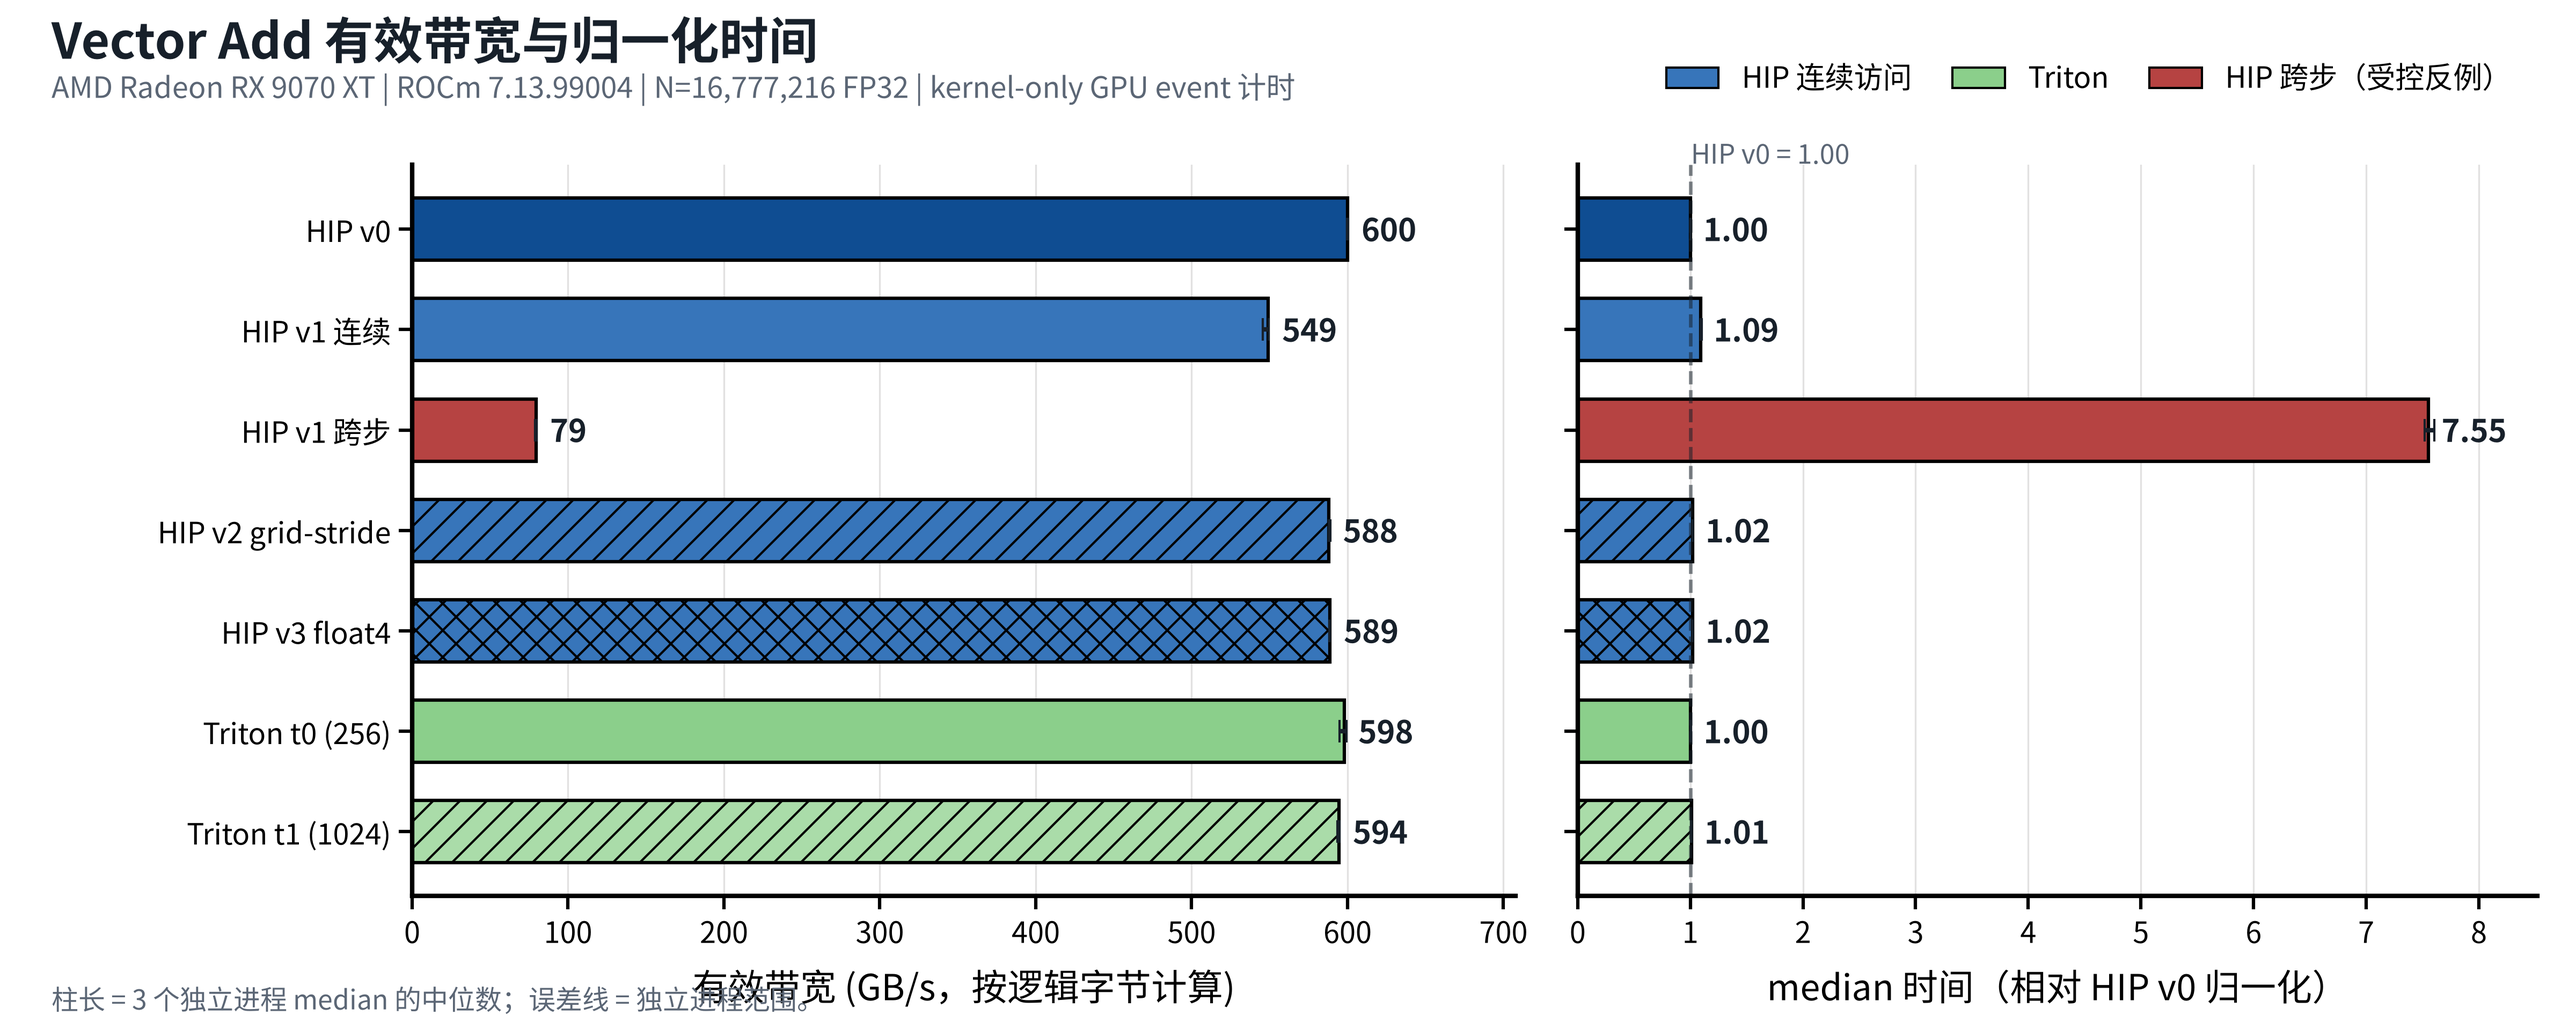
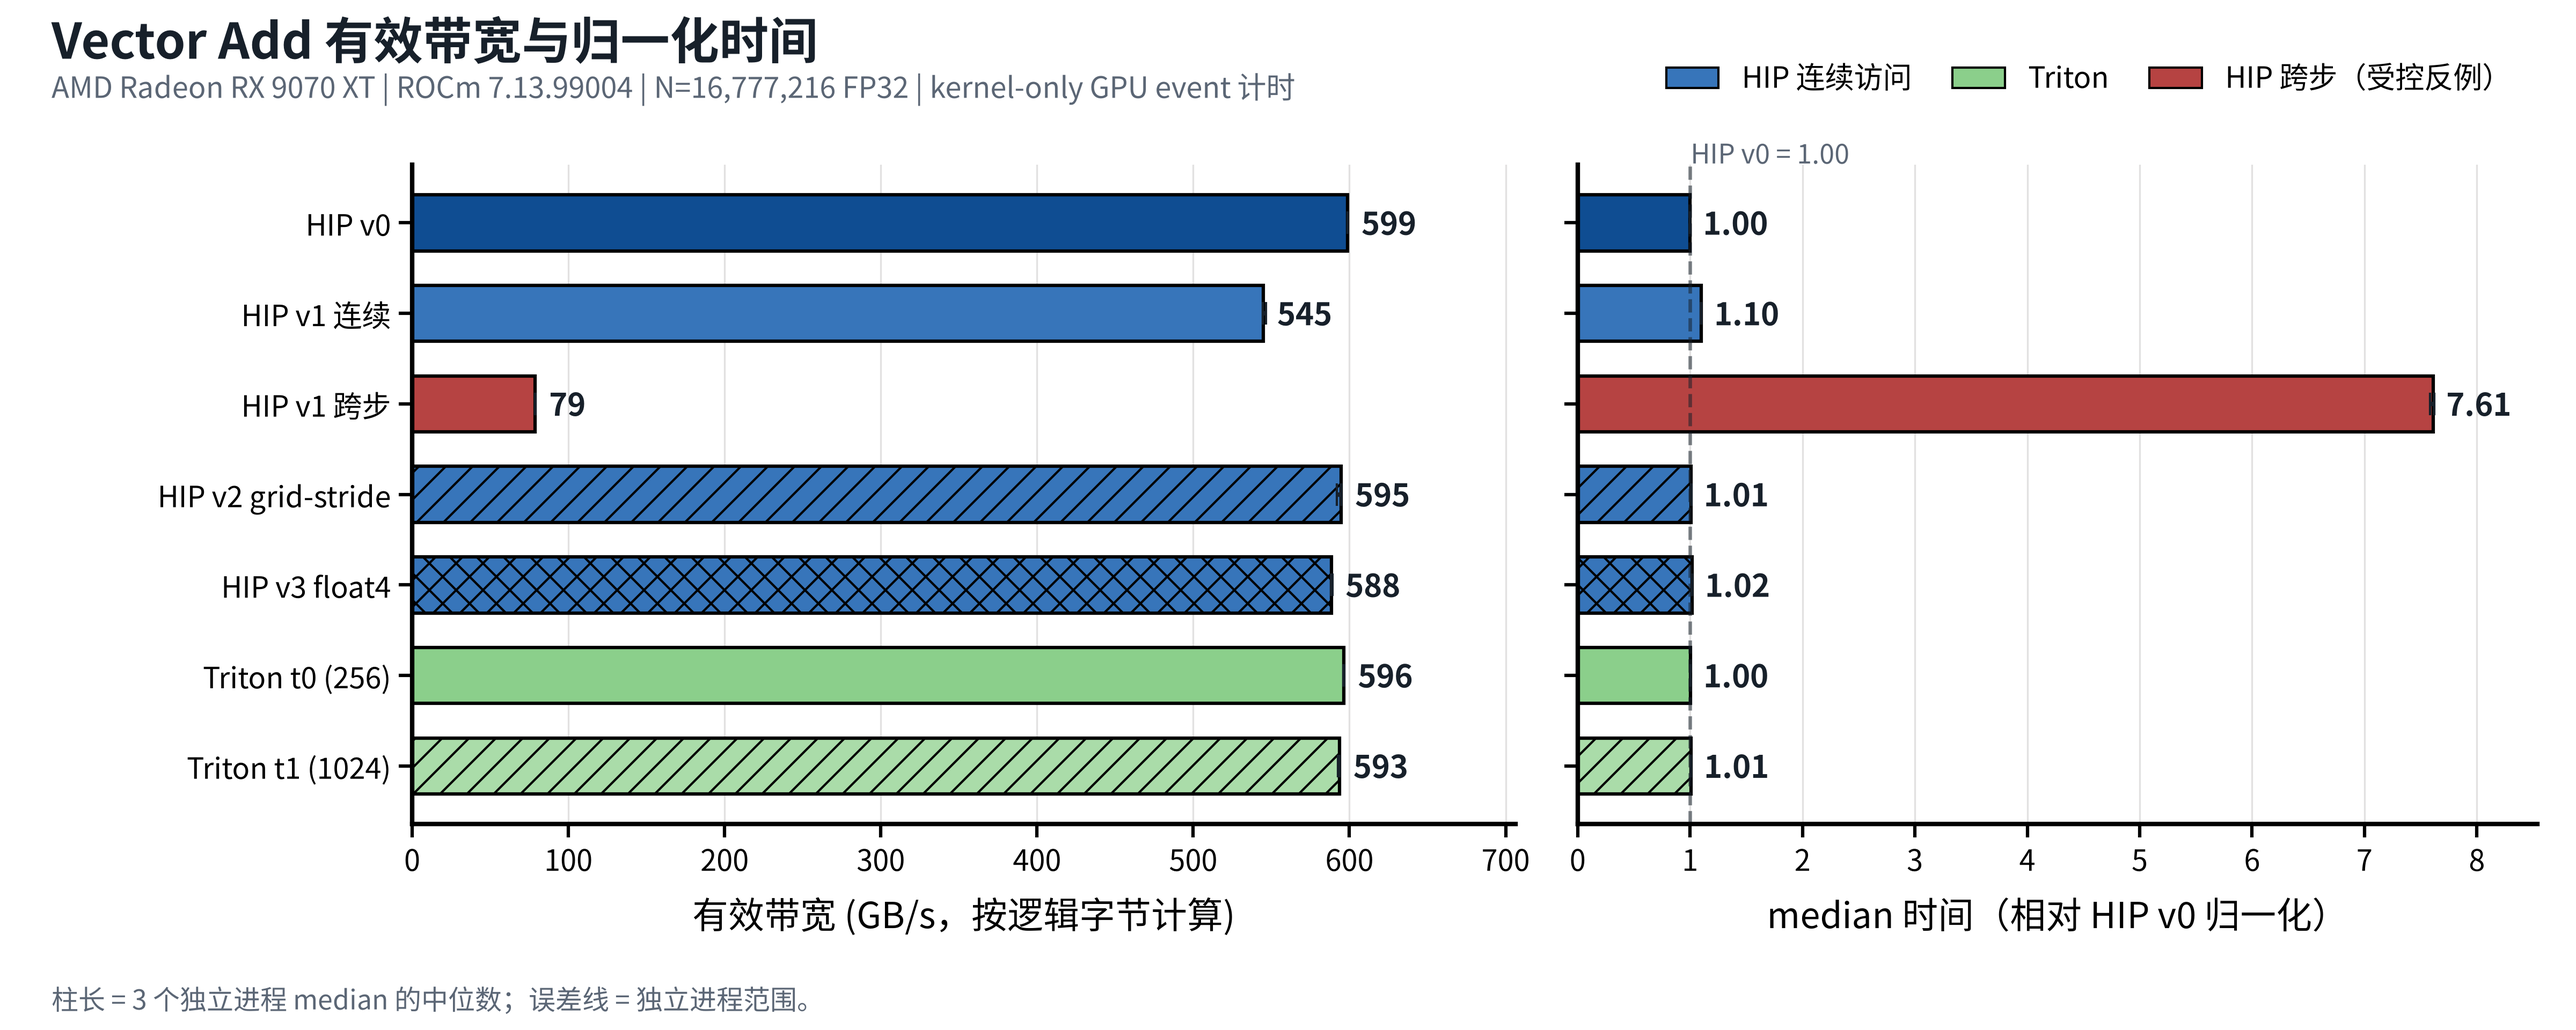
docs(part2): republish chapter 7 verified evidence

Changed region(s): [[0.0625, 0.1875, 0.9688, 0.9062], [0.25, 0.9375, 0.5, 0.9688], [0.6875, 0.9375, 0.9062, 0.9688]]

diff --git a/code/part2-kernels/chapter7/EXPERIMENT.md b/code/part2-kernels/chapter7/EXPERIMENT.md
@@ -6,9 +6,9 @@
 
 ## Source identity
 
-- Git commit: `7a518acb9ee6e0285b238b1532a7619767c66511`
[1 lines of base64/hex data omitted]
-- Evidence generated at: `2026-07-19T05:33:12.614236+00:00`
+- Git commit: `9832d1e91d9f6bce7888005b5ef9bca60e3c6fdf`
[1 lines of base64/hex data omitted]
+- Evidence generated at: `2026-07-19T05:54:40.408571+00:00`
 - Manifest identity: `evidence/manifest.json`
 
 ## Hardware and software
@@ -17,6 +17,9 @@
 | --- | --- |
 | GPU | AMD Radeon RX 9070 XT |
 | GPU architecture | `gfx1201` |
+| OS | Ubuntu 24.04.4 LTS |
+| Virtualization | `none` |
+| Execution | `native` |
 | ROCm / HIP runtime | `7.13.99004` |
 | PyTorch | `2.11.0+rocm7.13.0` |
 | Triton | `3.6.0` |
@@ -54,13 +57,13 @@
 
 | Implementation | Median (ms) | Run range (ms) | Logical effective bandwidth (GB/s) | Run range (GB/s) |
 | --- | ---: | ---: | ---: | ---: |
-| `hip-v0` | 0.335586 | 0.335325–0.335805 | 599.925459 | 599.534232–600.392426 |
-| `hip-v1-contiguous` | 0.366706 | 0.366426–0.369005 | 549.013631 | 545.592408–549.433165 |
-| `hip-v1-strided` | 2.535119 | 2.52336–2.55268 | 79.415048 | 78.868715–79.785128 |
-| `hip-v2` | 0.342345 | 0.341845–0.342386 | 588.080162 | 588.011442–588.940306 |
-| `hip-v3` | 0.342065 | 0.342046–0.342185 | 588.562373 | 588.355128–588.595091 |
-| `triton-t0` | 0.336685 | 0.335885–0.338385 | 597.966339 | 594.963109–599.391455 |
-| `triton-t1` | 0.338705 | 0.338445–0.339326 | 594.400998 | 593.313201–594.856756 |
+| `hip-v0` | 0.336263 | 0.336163–0.336263 | 598.716769 | 598.716769–598.894875 |
+| `hip-v1-contiguous` | 0.369564 | 0.368244–0.369643 | 544.767872 | 544.650711–546.721372 |
+| `hip-v1-strided` | 2.559888 | 2.549787–2.563447 | 78.646641 | 78.537436–78.958202 |
+| `hip-v2` | 0.338584 | 0.338523–0.340203 | 594.613415 | 591.782847–594.720571 |
+| `hip-v3` | 0.342123 | 0.341663–0.342303 | 588.462602 | 588.152304–589.254032 |
+| `triton-t0` | 0.337544 | 0.337444–0.337843 | 596.446356 | 595.916738–596.622218 |
+| `triton-t1` | 0.339224 | 0.339163–0.339764 | 593.491574 | 592.548335–593.597465 |
 
 ## Profiling evidence
 
@@ -78,8 +81,8 @@
 
 ## Negative results and limits
 
-- 受控的 HIP 跨步实现是本次明显负例：median 为 2.535119 ms，logical effective bandwidth 为 79.415048 GB/s；它验证了地址布局会主导这个带宽敏感算子。
-- 本次短实验中 `hip-v0` 与 `triton-t0` 的 logical effective bandwidth 分别为 599.925459 GB/s 与 597.966339 GB/s。这个有限 shape、软件栈与短协议的比较不建立永久的 HIP-versus-Triton winner。
+- 受控的 HIP 跨步实现是本次明显负例：median 为 2.559888 ms，logical effective bandwidth 为 78.646641 GB/s；它验证了地址布局会主导这个带宽敏感算子。
+- 本次短实验中 `hip-v0` 与 `triton-t0` 的 logical effective bandwidth 分别为 598.716769 GB/s 与 596.446356 GB/s。这个有限 shape、软件栈与短协议的比较不建立永久的 HIP-versus-Triton winner。
 - logical effective bandwidth 是按算子语义所需的逻辑读写字节计算的比较指标，logical effective bandwidth ≠ physical GDDR6 traffic。当前 kernel trace 也不是物理显存流量计数器证据。
 - 这些结果只适用于 manifest 记录的硬件、软件、shape、block、warmup、repeat 与独立进程协议；不能外推到其他算子、shape 或系统状态。
 
